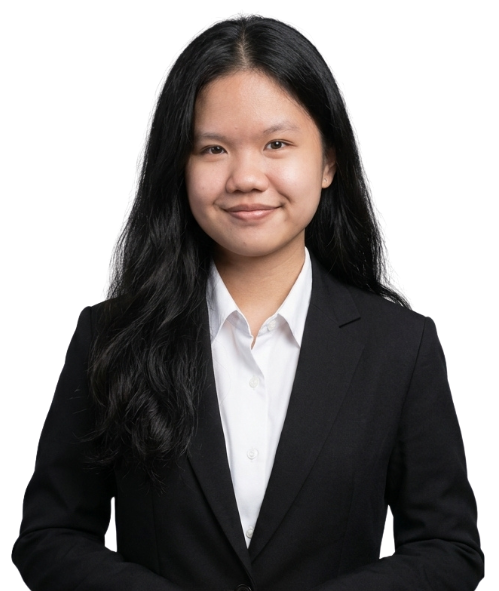
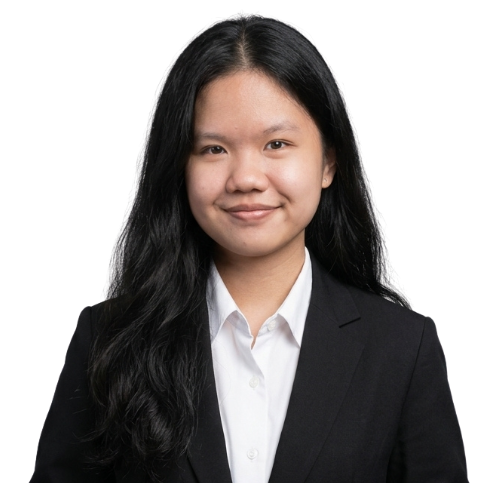
feat: update team of terrava

Changed region(s): [[0.0, 0.0, 0.992, 1.0], [0.7515, 0.7143, 0.8116, 1.0], [0.2705, 0.9627, 0.3006, 1.0]]

diff --git a/frontend/src/data/team.ts b/frontend/src/data/team.ts
@@ -13,12 +13,14 @@ export const teamMembers: TeamMember[] = [
     name: "Britney Angeline Soeseno",
     role: "CMO",
     image: "Images/profile/britney.jpeg",
+    linkedin: "https://www.linkedin.com/in/britneyangeline/",
   },
   {
     id: "member-3",
     name: "Ahmad Hamra",
     role: "CTO",
     image: "Images/profile/hamra.png",
+    linkedin: "https://www.linkedin.com/in/ahmad-hamra/",
   },
   {
     id: "member-4",
@@ -32,5 +34,6 @@ export const teamMembers: TeamMember[] = [
     name: "Alexandra Clarissa",
     role: "COO",
     image: "Images/profile/alexandra.png",
+    linkedin: "https://www.linkedin.com/in/alexandraclarissa/",
   },
 ];
